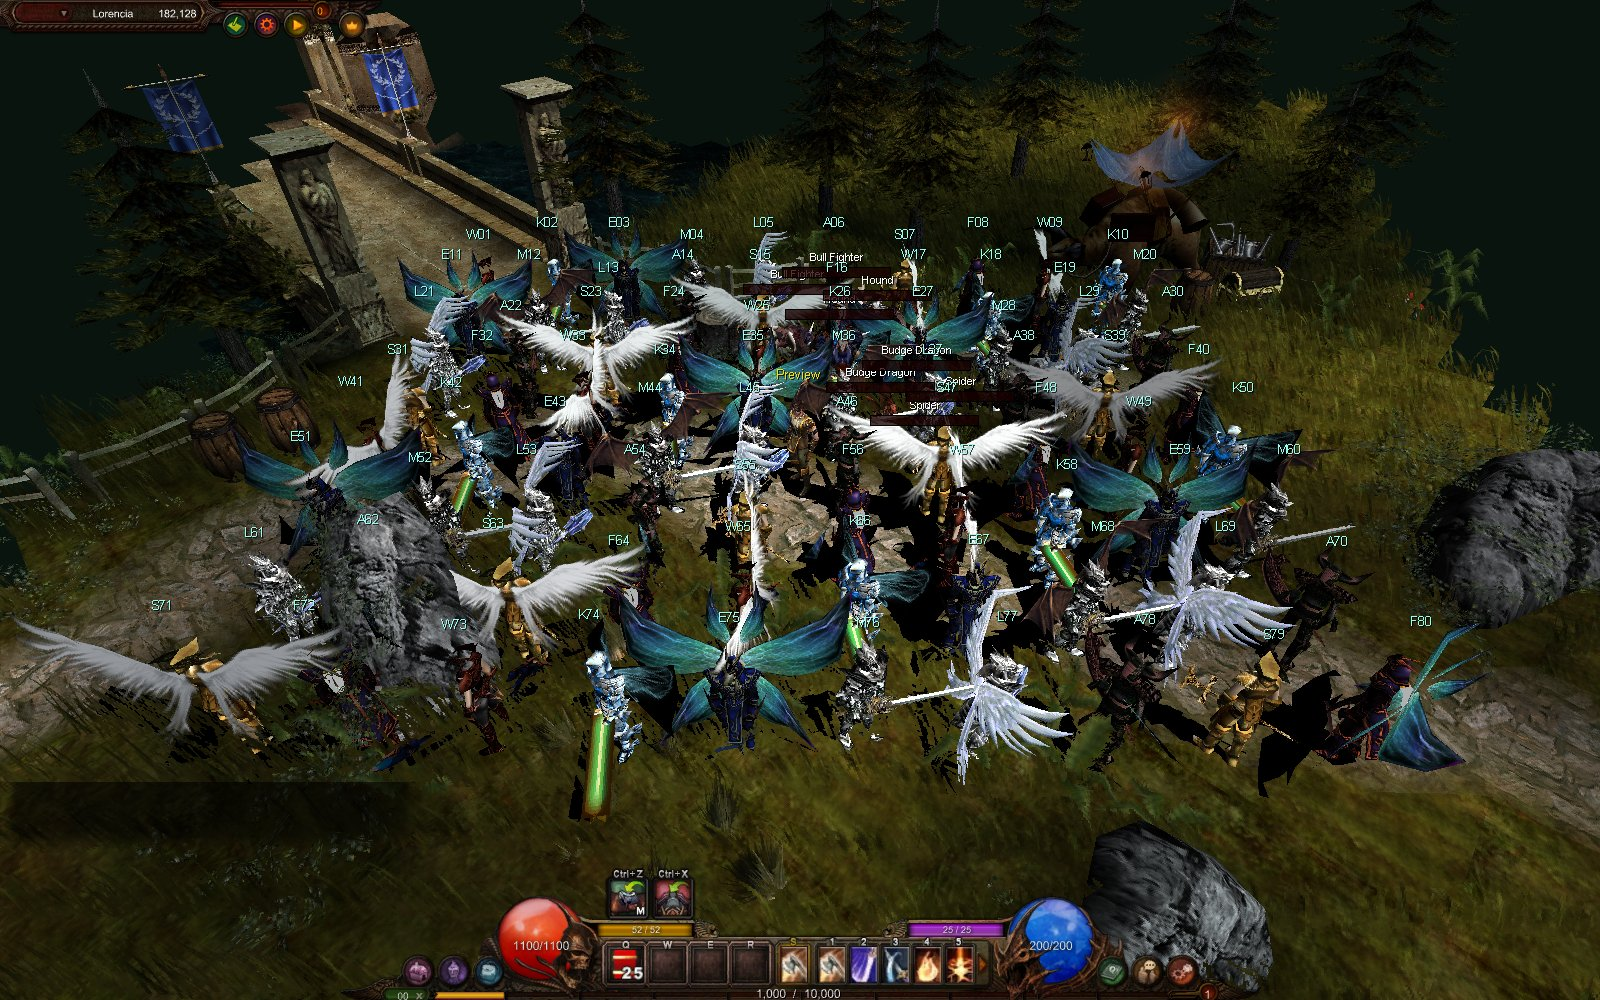
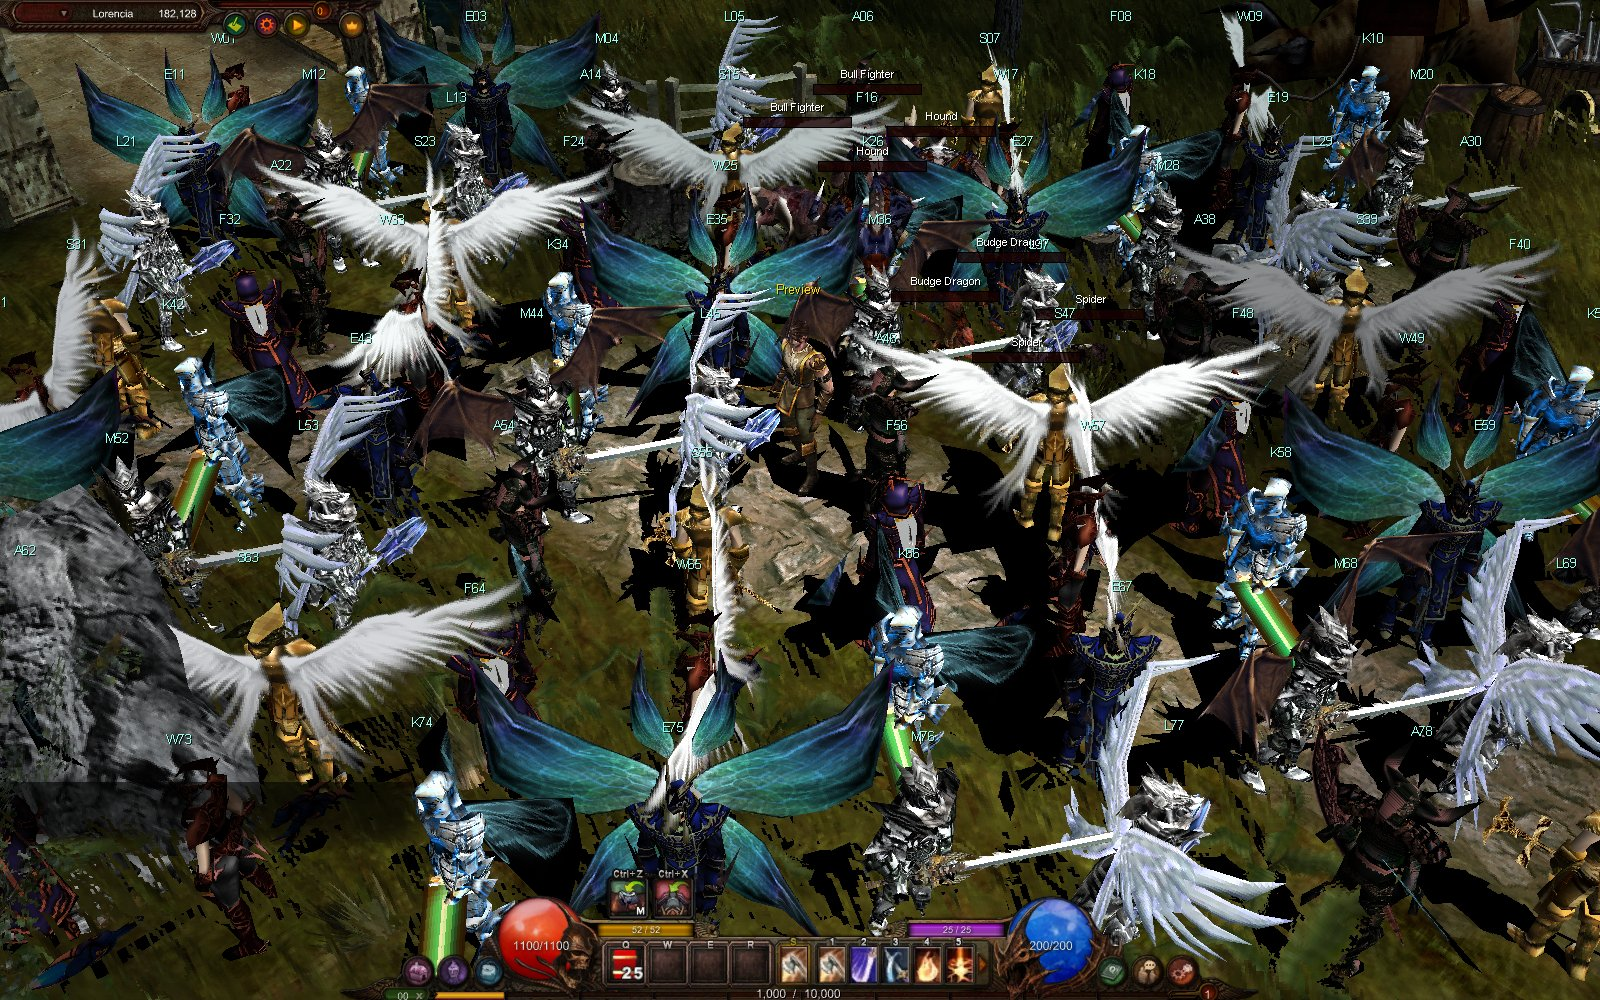
README-IMAGES-C: re-shoot README 26/27 at the client's world FOV
The 80-player images used the native-only --perf-fov 65, which looks past the
terrain cull (CreateFrustrum2D 0x016d20d9) onto the clear colour, as REGRESS-001
(#321) found. The client's zoom never exceeds the world FOV (39). The capture
script now keeps the world FOV (optional --fov), and both images are re-shot at
39: 0 clear-colour pixels in Lorencia, only crowd shadows in Tormenta. Same tiles,
crowd, HUD and 1600x1000. Pins, captions, finding and status lines are updated.

diff --git a/native/tools/capture_readme_stress.py b/native/tools/capture_readme_stress.py
@@ -64,13 +64,17 @@ def command(a, world, tile, directory, pf, af):
     """The hero is the world's default offline join: the recorded level-1 Dark Knight (class 1) whose HP/MP/SD/AG
     1100/200/52/25 native/fixture/hero_join.h seeds as current and maximum, and whose combat HP is the world's
     default 1100. No class or HP override: the old --class 0 had no recorded maxima (HUD x/0) and --hero-hp
-    1000000 did not fit A0/30's 16-bit HP field (16960)."""
+    1000000 did not fit A0/30's 16-bit HP field (16960).
+    The camera keeps the world FOV unless --fov is given: the client's zoom 0x0185a9bf picks from {20, 30, world
+    FOV}, so it never sees wider. The old native-only FOV 65 looked past the terrain cull (CreateFrustrum2D
+    0x016d20d9) onto the clear colour, REGRESS-001 (#321)."""
+    fov = ['--perf-fov', str(a.fov)] if getattr(a, 'fov', None) else []
     return [str(REPO/'native/build/mu-world'), '--game-root', str(a.game_root.resolve()),
             '--objects-dir', str(a.objects.resolve()), '--world', str(world),
             '--tile', ','.join(map(str, tile)), '--hero-name', 'Preview',
             '--players', str(pf), '--player-range', '40', '--placement', str(af),
             '--width', '1600', '--height', '1000', '--no-audio', '--headless', '--backend', 'gl',
-            '--frames', '101', '--every', '100', '--out-dir', str(directory), '--perf-fov', '65',
+            '--frames', '101', '--every', '100', '--out-dir', str(directory), *fov,
             '--gfx', str(a.gfx.resolve()), '--gfx-open', '', '--combat', '--combat-weapon', 'staff',
             '--combat-seed', '1', '--combat-script',
             '30:skill:9:mob00 50:skill:10:mob01 70:skill:14:mob02 90:skill:24:mob03',
@@ -98,6 +102,8 @@ def main():
     ap = argparse.ArgumentParser(description=__doc__)
     for name in ('game-root', 'objects', 'gfx', 'lang', 'out'):
         ap.add_argument('--'+name, type=Path, required=True)
+    ap.add_argument('--fov', type=float, help='native-only camera override (20..45 keeps both frames filled); '
+                                              'default: the world FOV the client uses')
     a = ap.parse_args()
     a.out = a.out.resolve()
     if a.out == REPO or REPO in a.out.parents:

diff --git a/native/tests/test_app_polish6.py b/native/tests/test_app_polish6.py
@@ -57,6 +57,13 @@ class CrowdFixture(unittest.TestCase):
         self.assertEqual(hp, vitals[0])
         self.assertLessEqual(hp, 0xffff)   # A0/30 carries HP in 16 bits
 
+    def test_crowd_keeps_the_world_fov(self):
+        """README-IMAGES-C: no native-only FOV override by default; FOV 65 saw past the terrain cull."""
+        self.assertNotIn('--perf-fov', self.command())
+        a = argparse.Namespace(game_root=Path('/g'), objects=Path('/o'), gfx=Path('/m'), lang=Path('/l'), fov=45.0)
+        cmd = crowd.command(a, 0, (182, 128), Path('/out'), Path('/p.txt'), Path('/a.txt'))
+        self.assertEqual(cmd[cmd.index('--perf-fov') + 1], '45.0')
+
     def test_hud_check_rejects_missing_or_exceeded_maxima(self):
         good = 'hud_vitals t=4012 session=1077,200,52,25 hud=1077,200,52,25 max=1100,200,52,25'
         self.assertEqual(crowd.hud_vitals('noise\n' + good)[-1],

diff --git a/scripts/audit_repository.py b/scripts/audit_repository.py
@@ -65,9 +65,9 @@ REVIEWED_MEDIA = {
     'docs/images/25-progression-character-options-menu.jpg':
[1 lines of base64/hex data omitted]
     'docs/images/26-80-players-lorencia.jpg':
[2 lines of base64/hex data omitted]
     'docs/images/27-80-players-tormenta-combat.jpg':
[2 lines of base64/hex data omitted]
     'docs/images/28-bow-arrows-trails-sparks.jpg':
[1 lines of base64/hex data omitted]
     'docs/images/29-ground-skill-rain-rings-craters.jpg':

diff --git a/docs/research/readme-stress.md b/docs/research/readme-stress.md
@@ -61,7 +61,8 @@ indices are 0/3/4/6/9/10, upgrades 0/3/5/7, weapons span swords, axe, bows, staf
 and mace, and wings use indices 0-4 with some wingless characters. World-coordinate
 diagonal rows form a screen rectangle with short, distinct synthetic nameplates.
 
-The captures use FOV 65, 1600x1000, the normal game HUD, closed panels/map, fixed
+The captures use the world FOV (39; FOV 65 until the README-IMAGES-C re-shoot below),
+1600x1000, the normal game HUD, closed panels/map, fixed
 comparison movie time, synchronous GFx presentation, normal scenery and effects.
 Lorencia is world 0 at 182,128, frame 0. Tormenta is world 141 at 60,50, frame 100;
 the shifted tile avoids foreground pillars obscuring the crowd. This is a fight
@@ -98,6 +99,9 @@ world and eight-patch GFx library. The output must be outside the repository:
   --gfx "$MU_GFX_DIR" --lang "$MU_LANG_DIR" --out "$MU_README_OUT"
 ```
 
+Since README-IMAGES-C the camera keeps the world FOV. `--fov N` sets the native-only
+`--perf-fov` override; leave it out for the README images.
+
 The script writes exact private argv/environment, PNG hashes and workload checks
 to commands.json. No decoded assets or runtime inputs are published. The
 committed script retains the authored scene recipe after local cleanup.
@@ -117,11 +121,13 @@ post-fix frame rate is inferred. The 80-player 25 fps target remains open.
 
 | Image | JPEG SHA-256 | Native source PNG SHA-256 |
 |---|---|---|
[4 lines of base64/hex data omitted]
 
-These are the APP-POLISH-006 re-shoots (below). The October 28 originals were
-`cad4e399…` (JPEG) / `ec3bd8ef…` (PNG) and `a8386983…` / `d26946a3…`.
+These are the README-IMAGES-C re-shoots at the world FOV (end of this note). The
+APP-POLISH-006 FOV-65 images were `7d4f9162…` (JPEG) / `eb3b1ca3…` (PNG) and
+`4100c2c9…` / `6b088732…`. The October 28 originals were `cad4e399…` / `ec3bd8ef…`
+and `a8386983…` / `d26946a3…`.
 
 ## APP-POLISH-006 re-shoot: session HUD vitals (2026-11-06)
 
@@ -169,3 +175,48 @@ fixture HUD numbers and the public demo's 1,000/10,000 experience bar. No accoun
 or real character names, chat, desktop chrome or paths. Nothing was painted over.
 The NATIVE-PERF frame rates quoted next to the images were not re-measured and are
 unchanged.
+
+## README-IMAGES-C re-shoot: the client's world FOV (2026-11-06)
+
+REGRESS-001 (#321) traced the dark edges of the FOV-65 images to the FOV itself.
+`--perf-fov 65` is a native-only camera override (`world_tool.c`, 20..90). The
+client's zoom `0x0185a9bf` picks from {20, 30, world FOV}, and the live Lorencia
+globals read FOV 39.0. At 65 the view reaches past the terrain tiles that
+CreateFrustrum2D `0x016d20d9` keeps, so the clear colour shows: 14.1% of the
+Lorencia frame and 9.2% of the Tormenta frame in REGRESS-001's empty-scene
+measurements. Both frames fill up to FOV 45.
+
+The capture script no longer passes `--perf-fov`; both scenes report `fov 39.000`
+(`world_fov 39.000`). FOV 45 was also shot from the same build. It fills both
+frames too, but it still leaves the crowd's corner players out of frame. The extra
+6 degrees would cost faithfulness for little framing gain, so the images use 39.
+Everything else is unchanged: tiles, frames 0 and 100, the 80 loadouts and 8
+monsters, the recorded Dark Knight HUD (1100/1100, 200/200, 52/52, 25/25),
+`MU_GFX_PUBLIC_DEMO=1`, `MU_GFX_TEST_CLOCK=1`, headless GL, window-only. Inputs were
+Native Data APP-REFRESH-006 (read-only) and the bundled eight-patch GFx library
+(`MU_GFX_LIB`). Each scene has 80/80 players and name records, complete base and
+glow textures, 5 skill events, 417 effects and 16 joints. The build was main
+`3ecc205c` plus this lane's script change.
+
+| Source PNG, 1600x1000 | Lorencia clear colour (10,20,14) | Tormenta pure black |
+|---|---|---|
+| FOV 65, empty scene (REGRESS-001) | 225,308 (14.1%) | 146,776 (9.2%) |
+| FOV 39, README frame (this re-shoot) | 0 | 120,501 (7.5%), all crowd shadows |
+| FOV 45, same crowd (not published) | 0 | 107,261 (6.7%), all crowd shadows |
+
+Tormenta's clear colour is black, the same value as the projected player shadows.
+A mask of the black pixels shows wing- and body-shaped shadow polygons inside the
+crowd only. The top of the frame has none and no edge region is uncovered. Without
+players, REGRESS-001 counted 1,281 black model pixels at FOV 39 on this tile (frame 0).
+
+The JPEGs use quality 85, 4:2:0, optimized, no EXIF: 565 KB (26) and 532 KB (27).
+The narrower view has more detail per pixel, so the files are larger than the FOV-65
+images' 450/407 KB. Privacy review of both encoded files at full size, in quadrant
+crops: only the synthetic names W01-F80, Preview, the demo monster names (Bull
+Fighter, Hound, Budge Dragon, Spider), the offline welcome line (Tormenta), the
+fixture HUD and the public demo's 1,000/10,000 experience bar. No account or real
+character name, chat, desktop chrome or path. Nothing was painted over.
+
+The NATIVE-PERF-004 rates quoted next to the images were measured by
+`bench_stress.py`, which still uses `--perf-fov 65`. They were not re-measured and
+apply to that benchmark view, not to these FOV-39 frames.

diff --git a/docs/handoffs/README-IMAGES-C.md b/docs/handoffs/README-IMAGES-C.md
@@ -1,0 +1,62 @@
+# README-IMAGES-C: README 26/27 at the client's world FOV
+
+Claude Opus 5.5 lane, 2026-11-06. Branch `claude/readme-images-c`, worktree `~/Documents/MTM/worktrees/readme-images-c`,
+from main `3ecc205c` (#320). Offline only: no original client, launcher, live read, account, network or protection work.
+The installed Native Preview, the Wine play app and the staged Wine app were not touched. Docs/media plus the capture
+script's camera default; no renderer, world or HUD code changed.
+
+## Why
+
+REGRESS-001 (#321) found that the dark "black water" at the edges of README images 26 and 27 comes from the capture's
+`--perf-fov 65`. That is a native-only camera override. The client's zoom `0x0185a9bf` picks from {20, 30, world FOV},
+and the live Lorencia capture reads FOV 39.0. At 65 the view reaches past the terrain tiles that CreateFrustrum2D
+`0x016d20d9` keeps, so the clear colour shows on 14.1% (Lorencia) and 9.2% (Tormenta) of the frame. Both frames fill
+completely up to FOV 45.
+
+## What changed
+
+- `native/tools/capture_readme_stress.py` no longer passes `--perf-fov`, so the camera keeps the world FOV. An optional
+  `--fov N` passes the override for comparisons. `test_app_polish6` checks both.
+- README images 26 and 27 were re-shot at the world FOV, **39** (both scenes report `fov 39.000`). FOV 45 was shot too.
+  It also fills both frames, but the crowd's corner players still stand past the frame edge. So 45 would trade the
+  client's actual view for little framing gain, and 39 is the faithful choice.
+- Same tiles (Lorencia 182,128 frame 0; Tormenta 60,50 frame 100), the same 80 loadouts and 8 monsters, the same HUD
+  (recorded Dark Knight join, 1100/1100, 200/200, 52/52, 25/25), `MU_GFX_PUBLIC_DEMO=1`, 1600×1000. JPEG quality 85,
+  4:2:0, optimized, no EXIF: 565 KB and 532 KB.
+- Audit pins, the README caption (it names FOV 39 and the cropped corners) and the [finding](../research/readme-stress.md)
+  (digests, method, measurements) are updated.
+
+## Before / after
+
+| Source PNG | Lorencia clear colour (10,20,14) | Tormenta pure black |
+|---|---|---|
+| Before: FOV 65 (REGRESS-001, empty scene) | 225,308 (14.1%) | 146,776 (9.2%) |
+| After: FOV 39, README frames | 0 | 120,501 (7.5%), crowd shadows only |
+
+Tormenta clears to black, and the projected player shadows are black too. A mask of the black pixels shows only
+shadow polygons inside the crowd: none at the top of the frame and no uncovered edge region. Visually, the left of the
+Lorencia bridge and Tormenta's far-right corner no longer show the dark field. The view is closer, so the crowd fills
+the frame.
+
+## Frame rates
+
+The NATIVE-PERF-004 rates quoted next to the images (crowd80 23.2/20.2, tormenta80 24.8/20.8 fps) come from
+`bench_stress.py`, which still uses `--perf-fov 65`. They were not re-measured. The README now says that they apply to
+the benchmark's FOV 65, not to these FOV-39 screenshots.
+
+## Privacy review
+
+Both encoded JPEGs were read at full size in quadrant crops. They show only the synthetic names W01–F80, Preview, the
+demo monster names (Bull Fighter, Hound, Budge Dragon, Spider), the offline welcome line (Tormenta), the fixture HUD
+and the public demo's 1,000/10,000 experience bar. No account or real character name, chat, desktop chrome or path.
+Nothing was painted over.
+
+## Checks
+
+Listed with wall times in the PR body. Steward validators: none (docs/media, rule 6c). The stress tests ran because the
+capture script changed.
+
+## Cleanup
+
+After the ready line, the scratch folder `native/scratch/readme-images-c` (FOV 39/45 captures, masks, crops, build log)
+and this worktree's `native/build` are deleted. No local input needs keeping.

diff --git a/docs/handoff.md b/docs/handoff.md
@@ -1,5 +1,7 @@
 # Continue from here
 
+README-IMAGES-C PR-ready: README images 26/27 (80 demo players in Lorencia and in a Tormenta fight) re-shot at the client's world FOV 39 instead of the native-only `--perf-fov 65`, which REGRESS-001 (#321) showed looks past the terrain cull (CreateFrustrum2D `0x016d20d9`) onto the clear colour (14.1% / 9.2% of the frame); now 0 clear-colour pixels in Lorencia and only crowd shadows in Tormenta. The capture script defaults to the world FOV (`--fov` optional); same tiles, crowd, HUD and 1600×1000. NATIVE-PERF rates unchanged (measured at FOV 65, as the README now says). [Handoff](handoffs/README-IMAGES-C.md).
+
 APP-POLISH-006 PR-ready: the 80-player crowd HUD shows the recorded level-1 Dark Knight join (HP 1100/1100, MP 200/200, SD 52/52, AG 25/25) instead of `16960/0`: the README stress command no longer overrides the hero's class (no recorded maxima for class 0) and HP (A0/30's 16-bit field truncated 1,000,000 to 16,960). The world's demo inventory items now start at the item constructor's full durability: the Blade +9 tooltip read `[1/53]` and now reads `[53/53]`. The cause was ed9ed6be's add-item default of 1, shown since ffbed220's instance tooltips. The quest-capture command now documents `MU_QUEST_SCENARIO`, and README images 26/27 are re-shot (window-only, demo names). [Handoff](handoffs/APP-POLISH-006.md).
 
 RENDER-WORLDS-SLOTS3 PR-ready: RenderObjectVisual's outer `rand() % 30` (`0x017f9797`) now drawn once per object with a model in every world, by the object runtime at the client's point (verified under Unicorn, 36 families × 1,000 cases, 22 mutants). Lorencia/Dungeon/Devias/Noria and Tormenta (particle visual) and Icarus (`icarus_cover`) drew it from the particle generator; 37/40 drew it inside the flames; every other world without a class drew none. Captures: DATA-ACQ-002 32/32 byte-identical; 7 of the October 22 views change by RNG phase only (control build). Test Area 121's two slots and Devias 0x67's action pick `0x012affa4` remain. [Finding](research/client-worlds-slots3.md), [handoff](handoffs/RENDER-WORLDS-SLOTS3.md).
@@ -177,6 +179,7 @@ APP-REFRESH-004: [reinstall from 32b7f34d, new Native Data with mapanim, proofs,
 APP-REFRESH-005: [reinstall from 7d7d694b, Native Data kept, HUD/Hound/item/bow/world proofs, rollback](handoffs/APP-REFRESH-005.md).
 APP-POLISH-005: [Elf ground skill 2044 in the offline demo, effects report](handoffs/APP-POLISH-005.md).
 APP-POLISH-006: [crowd HUD vitals, demo durability, quest-capture command, README 26/27](handoffs/APP-POLISH-006.md).
+README-IMAGES-C: [README 26/27 re-shot at the client's world FOV 39](handoffs/README-IMAGES-C.md).
 APP-REFRESH-006: [reinstall from 7e6a9292, Native Data with itemtrs.tsv, title/icon/ground-skill/Kubera/body proofs, rollback](handoffs/APP-REFRESH-006.md).
 PLAY-FIX-001: [world-change clear, audio output limiter, map-name check](handoffs/PLAY-FIX-001.md).
 

diff --git a/docs/roadmap.md b/docs/roadmap.md
@@ -1,5 +1,7 @@
 # Roadmap and work queue
 
+README-IMAGES-C PR-ready: README images 26/27 (80 demo players in Lorencia and in a Tormenta fight) re-shot at the client's world FOV 39 instead of the native-only `--perf-fov 65`, which REGRESS-001 (#321) showed looks past the terrain cull (CreateFrustrum2D `0x016d20d9`) onto the clear colour (14.1% / 9.2% of the frame); now 0 clear-colour pixels in Lorencia and only crowd shadows in Tormenta. The capture script defaults to the world FOV (`--fov` optional); same tiles, crowd, HUD and 1600×1000. NATIVE-PERF rates unchanged (measured at FOV 65, as the README now says). [Handoff](handoffs/README-IMAGES-C.md).
+
 APP-POLISH-006 PR-ready: the 80-player crowd HUD shows the recorded level-1 Dark Knight join (HP 1100/1100, MP 200/200, SD 52/52, AG 25/25) instead of `16960/0`: the README stress command no longer overrides the hero's class (no recorded maxima for class 0) and HP (A0/30's 16-bit field truncated 1,000,000 to 16,960). The world's demo inventory items now start at the item constructor's full durability: the Blade +9 tooltip read `[1/53]` and now reads `[53/53]`. The cause was ed9ed6be's add-item default of 1, shown since ffbed220's instance tooltips. The quest-capture command now documents `MU_QUEST_SCENARIO`, and README images 26/27 are re-shot (window-only, demo names). [Handoff](handoffs/APP-POLISH-006.md).
 
 RENDER-WORLDS-SLOTS3 PR-ready: RenderObjectVisual's outer `rand() % 30` (`0x017f9797`) now drawn once per object with a model in every world, by the object runtime at the client's point (verified under Unicorn, 36 families × 1,000 cases, 22 mutants). Lorencia/Dungeon/Devias/Noria and Tormenta (particle visual) and Icarus (`icarus_cover`) drew it from the particle generator; 37/40 drew it inside the flames; every other world without a class drew none. Captures: DATA-ACQ-002 32/32 byte-identical; 7 of the October 22 views change by RNG phase only (control build). Test Area 121's two slots and Devias 0x67's action pick `0x012affa4` remain. [Finding](research/client-worlds-slots3.md), [handoff](handoffs/RENDER-WORLDS-SLOTS3.md).

diff --git a/docs/status.md b/docs/status.md
@@ -1,5 +1,7 @@
 # Current status
 
+README-IMAGES-C PR-ready: README images 26/27 (80 demo players in Lorencia and in a Tormenta fight) re-shot at the client's world FOV 39 instead of the native-only `--perf-fov 65`, which REGRESS-001 (#321) showed looks past the terrain cull (CreateFrustrum2D `0x016d20d9`) onto the clear colour (14.1% / 9.2% of the frame); now 0 clear-colour pixels in Lorencia and only crowd shadows in Tormenta. The capture script defaults to the world FOV (`--fov` optional); same tiles, crowd, HUD and 1600×1000. NATIVE-PERF rates unchanged (measured at FOV 65, as the README now says). [Handoff](handoffs/README-IMAGES-C.md).
+
 APP-POLISH-006 PR-ready: the 80-player crowd HUD shows the recorded level-1 Dark Knight join (HP 1100/1100, MP 200/200, SD 52/52, AG 25/25) instead of `16960/0`: the README stress command no longer overrides the hero's class (no recorded maxima for class 0) and HP (A0/30's 16-bit field truncated 1,000,000 to 16,960). The world's demo inventory items now start at the item constructor's full durability: the Blade +9 tooltip read `[1/53]` and now reads `[53/53]`. The cause was ed9ed6be's add-item default of 1, shown since ffbed220's instance tooltips. The quest-capture command now documents `MU_QUEST_SCENARIO`, and README images 26/27 are re-shot (window-only, demo names). [Handoff](handoffs/APP-POLISH-006.md).
 
 RENDER-WORLDS-SLOTS3 PR-ready: RenderObjectVisual's outer `rand() % 30` (`0x017f9797`) now drawn once per object with a model in every world, by the object runtime at the client's point (verified under Unicorn, 36 families × 1,000 cases, 22 mutants). Lorencia/Dungeon/Devias/Noria and Tormenta (particle visual) and Icarus (`icarus_cover`) drew it from the particle generator; 37/40 drew it inside the flames; every other world without a class drew none. Captures: DATA-ACQ-002 32/32 byte-identical; 7 of the October 22 views change by RNG phase only (control build). Test Area 121's two slots and Devias 0x67's action pick `0x012affa4` remain. [Finding](research/client-worlds-slots3.md), [handoff](handoffs/RENDER-WORLDS-SLOTS3.md).

diff --git a/docs/design/native-port/plan.md b/docs/design/native-port/plan.md
@@ -1,5 +1,7 @@
 # Plan: the rest of the native macOS port
 
+README-IMAGES-C PR-ready: README images 26/27 (80 demo players in Lorencia and in a Tormenta fight) re-shot at the client's world FOV 39 instead of the native-only `--perf-fov 65`, which REGRESS-001 (#321) showed looks past the terrain cull (CreateFrustrum2D `0x016d20d9`) onto the clear colour (14.1% / 9.2% of the frame); now 0 clear-colour pixels in Lorencia and only crowd shadows in Tormenta. The capture script defaults to the world FOV (`--fov` optional); same tiles, crowd, HUD and 1600×1000. NATIVE-PERF rates unchanged (measured at FOV 65, as the README now says). [Handoff](../../handoffs/README-IMAGES-C.md).
+
 APP-POLISH-006 PR-ready: the 80-player crowd HUD shows the recorded level-1 Dark Knight join (HP 1100/1100, MP 200/200, SD 52/52, AG 25/25) instead of `16960/0`: the README stress command no longer overrides the hero's class (no recorded maxima for class 0) and HP (A0/30's 16-bit field truncated 1,000,000 to 16,960). The world's demo inventory items now start at the item constructor's full durability: the Blade +9 tooltip read `[1/53]` and now reads `[53/53]`. The cause was ed9ed6be's add-item default of 1, shown since ffbed220's instance tooltips. The quest-capture command now documents `MU_QUEST_SCENARIO`, and README images 26/27 are re-shot (window-only, demo names). [Handoff](handoffs/APP-POLISH-006.md).
 
 README-REFRESH-005-B PR-ready: README images 04a, 04b, 07, 08, 09, 13, 14, 19, 20, 21, 23, 24 and 25 re-shot from main 18ab0134 (offline, public demo, real Ruffle, APP-REFRESH-006 Native Data); 02 and 03 kept (same pixels). The owner's character name and vitals are gone from all of them; textured inventory items and NPC 257, ItemTRSData icon sizes, town scenery and demo players. [Handoff](../../handoffs/README-REFRESH-005-B.md).

diff --git a/README.md b/README.md
@@ -349,7 +349,8 @@ menu (exit, select server, switch character), and a character that dies respawns
 
 Eighty offline demo players in Lorencia and Tormenta Island, with varied classes, armour, weapons and wings.
 Names are synthetic. The HUD shows the offline session's vitals: the recorded level-1 Dark Knight join,
-HP 1100/1100, MP 200/200, SD 52/52 and AG 25/25.
+HP 1100/1100, MP 200/200, SD 52/52 and AG 25/25. The camera is the client's own: world FOV 39, the widest its zoom
+allows. The crowd fills the view, and its outermost corners stand past the frame edge.
 
 <p align="center"><img src="docs/images/26-80-players-lorencia.jpg" alt="Eighty demo players with textured armour, weapons and varied wings in native Lorencia" width="900"></p>
 
@@ -358,8 +359,9 @@ HP 1100/1100, MP 200/200, SD 52/52 and AG 25/25.
 [NATIVE-PERF-004](docs/handoffs/NATIVE-PERF-004.md) moved posing to worker threads and cut main-thread CPU in
 every paired run. On a shared, busy host it measured **crowd80 at 23.2 / 20.2 fps** and **tormenta80 at
 24.8 / 20.8 fps** (two repeats; NATIVE-PERF-003 had 18.4 and 18.9). Only the 40-player scene holds the strict
-25 fps cap; **the 25 fps target for 80 players remains open.** These screenshots use spaced crowds, eight
-monsters and closed panels; their throughput was not measured
+25 fps cap; **the 25 fps target for 80 players remains open.** Those rates were measured at the benchmark's
+FOV 65, not at the FOV 39 of these screenshots. The screenshots use spaced crowds, eight monsters and closed
+panels; their throughput was not measured
 ([capture details and checks](docs/research/readme-stress.md)).
 
 ### Sound
